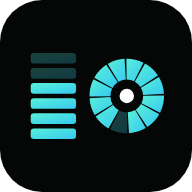
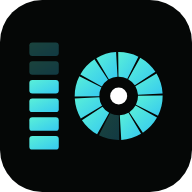
ditbo: la «i» medidor con el ancho y el alto de una i
El medidor ancho no se leía como «i». Ahora tiene el ancho del palo de la
«i» de Archivo (199) y su altura completa (725), con las mismas seis barras
(cuatro encendidas). Iconos e isotipo reajustados al medidor estrecho.

Claude-Session: https://claude.ai/code/session_01Ct51RYd75S8AEWDe9bRfpk

Changed region(s): [[0.125, 0.2188, 0.875, 0.7812]]

diff --git a/index.html b/index.html
@@ -164,7 +164,7 @@
     .smart-preloader{position:fixed;inset:0;z-index:10000;display:grid;place-items:center;overflow:hidden}
     .smart-preloader::after{content:"";position:absolute;inset:0;z-index:-2;background:#050706;transition:opacity .7s cubic-bezier(.33,0,.2,1) .08s}
     .smart-preloader::before{content:"";position:absolute;z-index:-1;width:min(86vw,780px);aspect-ratio:1;border-radius:50%;background:radial-gradient(circle,rgba(90,240,216,.06),rgba(90,240,216,.02) 42%,rgba(90,240,216,0) 70%);transition:opacity .45s ease}
-    .preloader-mark{--u:1ms;--mw:clamp(270px,56vw,620px);position:relative;z-index:1;transform-origin:50% 50%;width:var(--mw);aspect-ratio:2959.0/844.98;animation:plIn .32s cubic-bezier(.2,.8,.2,1) both}
+    .preloader-mark{--u:1ms;--mw:clamp(270px,56vw,620px);position:relative;z-index:1;transform-origin:50% 50%;width:var(--mw);aspect-ratio:2770.4/844.98;animation:plIn .32s cubic-bezier(.2,.8,.2,1) both}
     .pl-defs{position:absolute;width:0;height:0;overflow:hidden}
     .pl-group{position:absolute;inset:0;display:block;pointer-events:none}
     .pl-part{position:absolute;display:block}
@@ -345,9 +345,9 @@
   <div class="smart-preloader" id="smart-preloader" aria-hidden="true">
     <div class="preloader-mark" aria-hidden="true">
       <svg class="pl-defs" width="0" height="0" focusable="false"><linearGradient id="pl-grad" x1="0" y1="0" x2="1" y2="1"><stop offset="0" stop-color="#5af0d8"/><stop offset="1" stop-color="#35c9f0"/></linearGradient></svg>
-      <span class="pl-group pl-g-word"><svg class="pl-svg" viewBox="14.80 -20.24 2959.0 844.98" focusable="false"><path fill="#fff" transform="translate(60.0 748.0) scale(1 -1)" d="M259 -12Q189 -12 139.0 18.5Q89 49 62.5 110.5Q36 172 36 265Q36 357 62.5 418.0Q89 479 139.0 509.5Q189 540 259 540Q287 540 313.5 533.5Q340 527 362.5 513.5Q385 500 400 479H407V725H606V0H444L430 75H423Q395 30 353.0 9.0Q311 -12 259 -12ZM321 135Q352 135 371.5 150.0Q391 165 400.0 190.5Q409 216 409 247V280Q409 303 404.0 323.5Q399 344 388.5 359.5Q378 375 361.0 384.0Q344 393 321 393Q290 393 271.0 380.0Q252 367 243.5 344.0Q235 321 235 290V237Q235 206 243.5 183.0Q252 160 271.0 147.5Q290 135 321 135Z"/><path fill="#fff" transform="translate(1150.6 748.0) scale(1 -1)" d="M284 -12Q230 -12 188.5 0.5Q147 13 124.0 44.0Q101 75 101 129V393H27V528H109L152 688H300V528H412V393H300V192Q300 158 311.0 140.5Q322 123 356 123H412V6Q396 1 372.5 -3.5Q349 -8 325.5 -10.0Q302 -12 284 -12Z"/><path fill="#fff" transform="translate(1594.6 748.0) scale(1 -1)" d="M408 -12Q357 -12 313.5 9.0Q270 30 244 75H237L223 0H61V725H260V479H267Q283 499 305.0 512.5Q327 526 353.5 533.0Q380 540 408 540Q478 540 528.0 509.5Q578 479 604.5 418.0Q631 357 631 265Q631 172 604.5 110.5Q578 49 528.0 18.5Q478 -12 408 -12ZM346 135Q377 135 396.0 147.5Q415 160 423.5 183.0Q432 206 432 237V290Q432 321 423.5 344.0Q415 367 396.0 380.0Q377 393 346 393Q323 393 306.0 384.0Q289 375 278.5 359.5Q268 344 263.0 323.5Q258 303 258 280V247Q258 216 267.0 190.5Q276 165 295.5 150.0Q315 135 346 135Z"/><rect fill="url(#pl-grad)" opacity=".26" x="736.0" y="60.0" width="361.6" height="85.3" rx="25.6"/><rect fill="url(#pl-grad)" opacity=".26" x="736.0" y="180.5" width="361.6" height="85.3" rx="25.6"/><rect fill="url(#pl-grad)" x="736.0" y="301.0" width="361.6" height="85.3" rx="25.6"/><rect fill="url(#pl-grad)" x="736.0" y="421.5" width="361.6" height="85.3" rx="25.6"/><rect fill="url(#pl-grad)" x="736.0" y="542.0" width="361.6" height="85.3" rx="25.6"/><rect fill="url(#pl-grad)" x="736.0" y="662.5" width="361.6" height="85.3" rx="25.6"/></svg></span>
-      <span class="pl-group pl-g-o"><svg class="pl-svg" viewBox="14.80 -20.24 2959.0 844.98" focusable="false"><path class="pl-ray-gap" fill="url(#pl-grad)" d="M2598.2 781.5A297.5 297.5 0 0 1 2461.9 750.0L2536.5 601.0A130.9 130.9 0 0 0 2596.5 614.9Z"/><path class="pl-ray pl-ray-0" fill="url(#pl-grad)" d="M2449.1 743.2A297.5 297.5 0 0 1 2346.7 647.8L2485.8 556.1A130.9 130.9 0 0 0 2530.8 598.0Z"/><path class="pl-ray pl-ray-1" fill="url(#pl-grad)" d="M2339.0 635.4A297.5 297.5 0 0 1 2298.1 501.6L2464.4 491.8A130.9 130.9 0 0 0 2482.4 550.6Z"/><path class="pl-ray pl-ray-2" fill="url(#pl-grad)" d="M2297.6 487.1A297.5 297.5 0 0 1 2329.1 350.8L2478.1 425.4A130.9 130.9 0 0 0 2464.2 485.4Z"/><path class="pl-ray pl-ray-3" fill="url(#pl-grad)" d="M2335.9 338.0A297.5 297.5 0 0 1 2431.3 235.6L2523.0 374.7A130.9 130.9 0 0 0 2481.1 419.7Z"/><path class="pl-ray pl-ray-4" fill="url(#pl-grad)" d="M2443.7 227.9A297.5 297.5 0 0 1 2577.5 187.0L2587.3 353.3A130.9 130.9 0 0 0 2528.5 371.3Z"/><path class="pl-ray pl-ray-5" fill="url(#pl-grad)" d="M2592.0 186.5A297.5 297.5 0 0 1 2728.3 218.0L2653.7 367.0A130.9 130.9 0 0 0 2593.7 353.1Z"/><path class="pl-ray pl-ray-6" fill="url(#pl-grad)" d="M2741.1 224.8A297.5 297.5 0 0 1 2843.5 320.2L2704.4 411.9A130.9 130.9 0 0 0 2659.4 370.0Z"/><path class="pl-ray pl-ray-7" fill="url(#pl-grad)" d="M2851.2 332.6A297.5 297.5 0 0 1 2892.1 466.4L2725.8 476.2A130.9 130.9 0 0 0 2707.8 417.4Z"/><path class="pl-ray pl-ray-8" fill="url(#pl-grad)" d="M2892.6 480.9A297.5 297.5 0 0 1 2861.1 617.2L2712.1 542.6A130.9 130.9 0 0 0 2726.0 482.6Z"/><path class="pl-ray pl-ray-9" fill="url(#pl-grad)" d="M2854.3 630.0A297.5 297.5 0 0 1 2758.9 732.4L2667.2 593.3A130.9 130.9 0 0 0 2709.1 548.3Z"/><path class="pl-ray pl-ray-10" fill="url(#pl-grad)" d="M2746.5 740.1A297.5 297.5 0 0 1 2612.7 781.0L2602.9 614.7A130.9 130.9 0 0 0 2661.7 596.7Z"/></svg></span>
-      <span class="pl-group pl-g-dot"><span class="pl-part pl-dot-glow" style="left:80.9834%;top:37.8991%;width:12.4366%;height:43.5513%"></span><svg class="pl-svg" viewBox="14.80 -20.24 2959.0 844.98" focusable="false"><circle class="preloader-dot pl-dot" cx="2595.1" cy="484.0" r="57.6" fill="#fff" stroke="#050706" stroke-width="32" paint-order="stroke"/></svg></span>
+      <span class="pl-group pl-g-word"><svg class="pl-svg" viewBox="14.80 -20.24 2770.4 844.98" focusable="false"><path fill="#fff" transform="translate(60.0 748.0) scale(1 -1)" d="M259 -12Q189 -12 139.0 18.5Q89 49 62.5 110.5Q36 172 36 265Q36 357 62.5 418.0Q89 479 139.0 509.5Q189 540 259 540Q287 540 313.5 533.5Q340 527 362.5 513.5Q385 500 400 479H407V725H606V0H444L430 75H423Q395 30 353.0 9.0Q311 -12 259 -12ZM321 135Q352 135 371.5 150.0Q391 165 400.0 190.5Q409 216 409 247V280Q409 303 404.0 323.5Q399 344 388.5 359.5Q378 375 361.0 384.0Q344 393 321 393Q290 393 271.0 380.0Q252 367 243.5 344.0Q235 321 235 290V237Q235 206 243.5 183.0Q252 160 271.0 147.5Q290 135 321 135Z"/><path fill="#fff" transform="translate(962.0 748.0) scale(1 -1)" d="M284 -12Q230 -12 188.5 0.5Q147 13 124.0 44.0Q101 75 101 129V393H27V528H109L152 688H300V528H412V393H300V192Q300 158 311.0 140.5Q322 123 356 123H412V6Q396 1 372.5 -3.5Q349 -8 325.5 -10.0Q302 -12 284 -12Z"/><path fill="#fff" transform="translate(1406.0 748.0) scale(1 -1)" d="M408 -12Q357 -12 313.5 9.0Q270 30 244 75H237L223 0H61V725H260V479H267Q283 499 305.0 512.5Q327 526 353.5 533.0Q380 540 408 540Q478 540 528.0 509.5Q578 479 604.5 418.0Q631 357 631 265Q631 172 604.5 110.5Q578 49 528.0 18.5Q478 -12 408 -12ZM346 135Q377 135 396.0 147.5Q415 160 423.5 183.0Q432 206 432 237V290Q432 321 423.5 344.0Q415 367 396.0 380.0Q377 393 346 393Q323 393 306.0 384.0Q289 375 278.5 359.5Q268 344 263.0 323.5Q258 303 258 280V247Q258 216 267.0 190.5Q276 165 295.5 150.0Q315 135 346 135Z"/><rect fill="url(#pl-grad)" opacity=".26" x="728.0" y="23.0" width="199.0" height="91.3" rx="20.0"/><rect fill="url(#pl-grad)" opacity=".26" x="728.0" y="149.7" width="199.0" height="91.3" rx="20.0"/><rect fill="url(#pl-grad)" x="728.0" y="276.5" width="199.0" height="91.3" rx="20.0"/><rect fill="url(#pl-grad)" x="728.0" y="403.2" width="199.0" height="91.3" rx="20.0"/><rect fill="url(#pl-grad)" x="728.0" y="530.0" width="199.0" height="91.3" rx="20.0"/><rect fill="url(#pl-grad)" x="728.0" y="656.7" width="199.0" height="91.3" rx="20.0"/></svg></span>
+      <span class="pl-group pl-g-o"><svg class="pl-svg" viewBox="14.80 -20.24 2770.4 844.98" focusable="false"><path class="pl-ray-gap" fill="url(#pl-grad)" d="M2409.6 781.5A297.5 297.5 0 0 1 2273.3 750.0L2347.9 601.0A130.9 130.9 0 0 0 2407.9 614.9Z"/><path class="pl-ray pl-ray-0" fill="url(#pl-grad)" d="M2260.5 743.2A297.5 297.5 0 0 1 2158.1 647.8L2297.2 556.1A130.9 130.9 0 0 0 2342.2 598.0Z"/><path class="pl-ray pl-ray-1" fill="url(#pl-grad)" d="M2150.4 635.4A297.5 297.5 0 0 1 2109.5 501.6L2275.8 491.8A130.9 130.9 0 0 0 2293.8 550.6Z"/><path class="pl-ray pl-ray-2" fill="url(#pl-grad)" d="M2109.0 487.1A297.5 297.5 0 0 1 2140.5 350.8L2289.5 425.4A130.9 130.9 0 0 0 2275.6 485.4Z"/><path class="pl-ray pl-ray-3" fill="url(#pl-grad)" d="M2147.3 338.0A297.5 297.5 0 0 1 2242.7 235.6L2334.4 374.7A130.9 130.9 0 0 0 2292.5 419.7Z"/><path class="pl-ray pl-ray-4" fill="url(#pl-grad)" d="M2255.1 227.9A297.5 297.5 0 0 1 2388.9 187.0L2398.7 353.3A130.9 130.9 0 0 0 2339.9 371.3Z"/><path class="pl-ray pl-ray-5" fill="url(#pl-grad)" d="M2403.4 186.5A297.5 297.5 0 0 1 2539.7 218.0L2465.1 367.0A130.9 130.9 0 0 0 2405.1 353.1Z"/><path class="pl-ray pl-ray-6" fill="url(#pl-grad)" d="M2552.5 224.8A297.5 297.5 0 0 1 2654.9 320.2L2515.8 411.9A130.9 130.9 0 0 0 2470.8 370.0Z"/><path class="pl-ray pl-ray-7" fill="url(#pl-grad)" d="M2662.6 332.6A297.5 297.5 0 0 1 2703.5 466.4L2537.2 476.2A130.9 130.9 0 0 0 2519.2 417.4Z"/><path class="pl-ray pl-ray-8" fill="url(#pl-grad)" d="M2704.0 480.9A297.5 297.5 0 0 1 2672.5 617.2L2523.5 542.6A130.9 130.9 0 0 0 2537.4 482.6Z"/><path class="pl-ray pl-ray-9" fill="url(#pl-grad)" d="M2665.7 630.0A297.5 297.5 0 0 1 2570.3 732.4L2478.6 593.3A130.9 130.9 0 0 0 2520.5 548.3Z"/><path class="pl-ray pl-ray-10" fill="url(#pl-grad)" d="M2557.9 740.1A297.5 297.5 0 0 1 2424.1 781.0L2414.3 614.7A130.9 130.9 0 0 0 2473.1 596.7Z"/></svg></span>
+      <span class="pl-group pl-g-dot"><span class="pl-part pl-dot-glow" style="left:79.6889%;top:37.8991%;width:13.2833%;height:43.5513%"></span><svg class="pl-svg" viewBox="14.80 -20.24 2770.4 844.98" focusable="false"><circle class="preloader-dot pl-dot" cx="2406.5" cy="484.0" r="57.6" fill="#fff" stroke="#050706" stroke-width="32" paint-order="stroke"/></svg></span>
     </div>
   </div>
   <a class="skip-link" href="#proceso">Saltar al contenido</a>
@@ -364,7 +364,7 @@
   </div>
 
   <nav class="site-nav" aria-label="Principal">
-    <a class="brand" href="#inicio" aria-label="ditbo, inicio"><img class="brand-wordmark" src="brand/logo/logo-ditbo.svg" alt="ditbo" width="2959" height="845" fetchpriority="high"></a>
+    <a class="brand" href="#inicio" aria-label="ditbo, inicio"><img class="brand-wordmark" src="brand/logo/logo-ditbo.svg" alt="ditbo" width="2770" height="845" fetchpriority="high"></a>
     <div class="nav-links" id="primary-menu">
       <a href="#proceso">Sistema</a>
       <a href="#inbox">Inbox</a>
@@ -417,7 +417,7 @@
       <div class="os-window" id="discovery-board">
         <div class="os-bar">
           <span class="traffic red"></span><span class="traffic yellow"></span><span class="traffic green"></span>
-          <strong class="os-brand"><img src="brand/logo/logo-ditbo.svg" alt="ditbo" width="2959" height="845"><span>OS &mdash; n&uacute;cleo de decisi&oacute;n</span></strong>
+          <strong class="os-brand"><img src="brand/logo/logo-ditbo.svg" alt="ditbo" width="2770" height="845"><span>OS &mdash; n&uacute;cleo de decisi&oacute;n</span></strong>
           <em class="os-live"><i></i> en vivo</em>
         </div>
         <div class="os-tabs" id="system-cases" role="tablist" aria-label="Casos que resuelve ditbo">
@@ -469,7 +469,7 @@
       <div class="mail-app liquid-glass" aria-label="Bandeja inteligente de ditbo">
         <div class="mail-titlebar">
           <span class="traffic red"></span><span class="traffic yellow"></span><span class="traffic green"></span>
-          <strong class="mail-brand"><img src="brand/logo/logo-ditbo.svg" alt="ditbo" width="2959" height="845"><span aria-hidden="true">&middot;</span><span>Bandeja de la cl&iacute;nica</span></strong>
+          <strong class="mail-brand"><img src="brand/logo/logo-ditbo.svg" alt="ditbo" width="2770" height="845"><span aria-hidden="true">&middot;</span><span>Bandeja de la cl&iacute;nica</span></strong>
         </div>
         <div class="mail-body">
           <aside class="mail-sidebar">
@@ -586,7 +586,7 @@
               <span class="wa-back" aria-hidden="true"></span>
               <span class="wa-avatar" aria-hidden="true"><img src="brand/icono/icono-ditbo.svg" alt=""></span>
               <div class="wa-contact">
-                <strong class="wa-brand"><img src="brand/logo/logo-ditbo.svg" alt="ditbo" width="2959" height="845"></strong>
+                <strong class="wa-brand"><img src="brand/logo/logo-ditbo.svg" alt="ditbo" width="2770" height="845"></strong>
                 <small id="story-status">en l&iacute;nea</small>
               </div>
               <span class="wa-ic wa-video" aria-hidden="true"></span>
@@ -975,7 +975,7 @@
 
   <footer class="site-footer">
     <div class="footer-marca">
-      <a class="brand" href="#inicio"><img class="brand-wordmark" src="brand/logo/logo-ditbo.svg" alt="ditbo" width="2959" height="845"></a>
+      <a class="brand" href="#inicio"><img class="brand-wordmark" src="brand/logo/logo-ditbo.svg" alt="ditbo" width="2770" height="845"></a>
       <p>Recepci&oacute;n automatizada para cl&iacute;nicas dentales.</p>
       <a class="footer-demo" href="#contacto" data-demo-open>Pedir demo</a>
     </div>
@@ -1009,7 +1009,7 @@
         <svg viewBox="0 0 24 24" width="16" height="16" fill="none" stroke="currentColor" stroke-width="2.2" stroke-linecap="round"><path d="M6 6l12 12M18 6 6 18"/></svg>
       </button>
       <div class="demo-modal-aside">
-        <img class="demo-modal-marca" src="brand/logo/logo-ditbo.svg" alt="ditbo" width="2959" height="845">
+        <img class="demo-modal-marca" src="brand/logo/logo-ditbo.svg" alt="ditbo" width="2770" height="845">
         <p class="eyebrow"><span></span> Demo</p>
         <h2 id="demo-modal-title">Tu recepci&oacute;n puede empezar a respirar.</h2>
         <p class="demo-modal-lead">Vemos tu operativa real y te enseñamos dónde puede entrar ditb<span class="b-ai">o</span>.</p>

diff --git a/legal/cookies.html b/legal/cookies.html
@@ -20,7 +20,7 @@
 <body>
   <main class="legal-shell">
     <nav class="legal-nav" aria-label="Legal">
-      <a class="brand" href="../index.html" aria-label="ditbo, inicio"><img class="brand-wordmark" src="../brand/logo/logo-ditbo.svg" alt="ditbo" width="2959" height="845"></a>
+      <a class="brand" href="../index.html" aria-label="ditbo, inicio"><img class="brand-wordmark" src="../brand/logo/logo-ditbo.svg" alt="ditbo" width="2770" height="845"></a>
       <div class="legal-links">
         <a href="../integraciones.html">Integraciones</a>
         <a href="../como-funciona.html">Cómo funciona</a>

diff --git a/legal/privacidad.html b/legal/privacidad.html
@@ -20,7 +20,7 @@
 <body>
   <main class="legal-shell">
     <nav class="legal-nav" aria-label="Legal">
-      <a class="brand" href="../index.html" aria-label="ditbo, inicio"><img class="brand-wordmark" src="../brand/logo/logo-ditbo.svg" alt="ditbo" width="2959" height="845"></a>
+      <a class="brand" href="../index.html" aria-label="ditbo, inicio"><img class="brand-wordmark" src="../brand/logo/logo-ditbo.svg" alt="ditbo" width="2770" height="845"></a>
       <div class="legal-links">
         <a href="../integraciones.html">Integraciones</a>
         <a href="../como-funciona.html">Cómo funciona</a>

diff --git a/legal/terminos.html b/legal/terminos.html
@@ -20,7 +20,7 @@
 <body>
   <main class="legal-shell">
     <nav class="legal-nav" aria-label="Legal">
-      <a class="brand" href="../index.html" aria-label="ditbo, inicio"><img class="brand-wordmark" src="../brand/logo/logo-ditbo.svg" alt="ditbo" width="2959" height="845"></a>
+      <a class="brand" href="../index.html" aria-label="ditbo, inicio"><img class="brand-wordmark" src="../brand/logo/logo-ditbo.svg" alt="ditbo" width="2770" height="845"></a>
       <div class="legal-links">
         <a href="../integraciones.html">Integraciones</a>
         <a href="../como-funciona.html">Cómo funciona</a>

diff --git a/integraciones.html b/integraciones.html
@@ -37,7 +37,7 @@
 <body>
   <main class="legal-shell">
     <nav class="legal-nav" aria-label="Navegación">
-      <a class="brand" href="index.html" aria-label="ditbo, inicio"><img class="brand-wordmark" src="brand/logo/logo-ditbo.svg" alt="ditbo" width="2959" height="845"></a>
+      <a class="brand" href="index.html" aria-label="ditbo, inicio"><img class="brand-wordmark" src="brand/logo/logo-ditbo.svg" alt="ditbo" width="2770" height="845"></a>
       <div class="legal-links">
         <a href="como-funciona.html">Cómo funciona</a>
         <a href="index.html#precio">Precio</a>

diff --git a/como-funciona.html b/como-funciona.html
@@ -37,7 +37,7 @@
 <body>
   <main class="legal-shell">
     <nav class="legal-nav" aria-label="Navegación">
-      <a class="brand" href="index.html" aria-label="ditbo, inicio"><img class="brand-wordmark" src="brand/logo/logo-ditbo.svg" alt="ditbo" width="2959" height="845"></a>
+      <a class="brand" href="index.html" aria-label="ditbo, inicio"><img class="brand-wordmark" src="brand/logo/logo-ditbo.svg" alt="ditbo" width="2770" height="845"></a>
       <div class="legal-links">
         <a href="integraciones.html">Integraciones</a>
         <a href="index.html#precio">Precio</a>

diff --git a/css/refresh.css b/css/refresh.css
@@ -1020,7 +1020,7 @@ main > section.hero { padding-block: clamp(7rem, 14vh, 11rem) clamp(5rem, 10vh, 
   display: block;
   width: 79px;
   height: auto;
-  aspect-ratio: 2959 / 844.98;
+  aspect-ratio: 2770.4 / 844.98;
   object-fit: contain;
   object-position: center;
   margin-bottom: 1.4rem;
